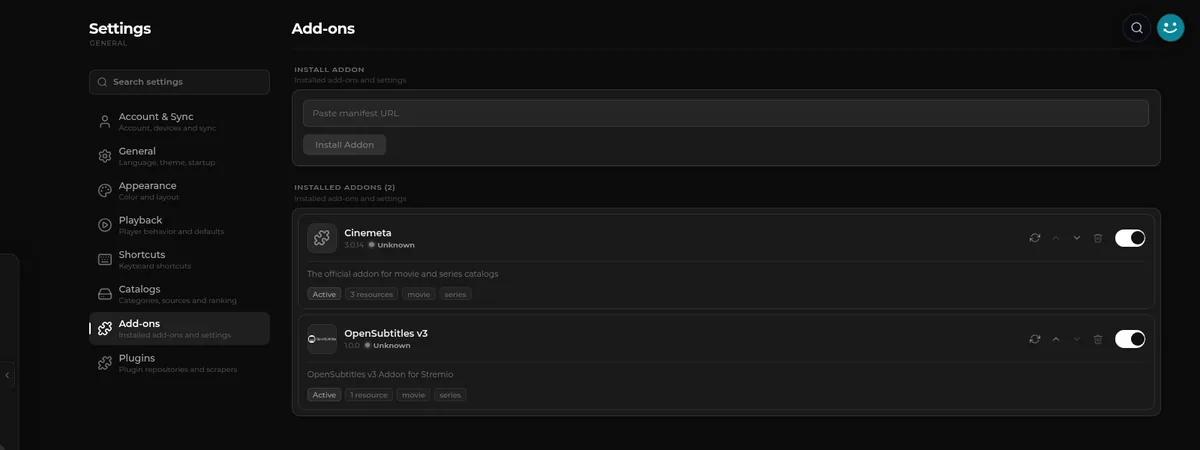
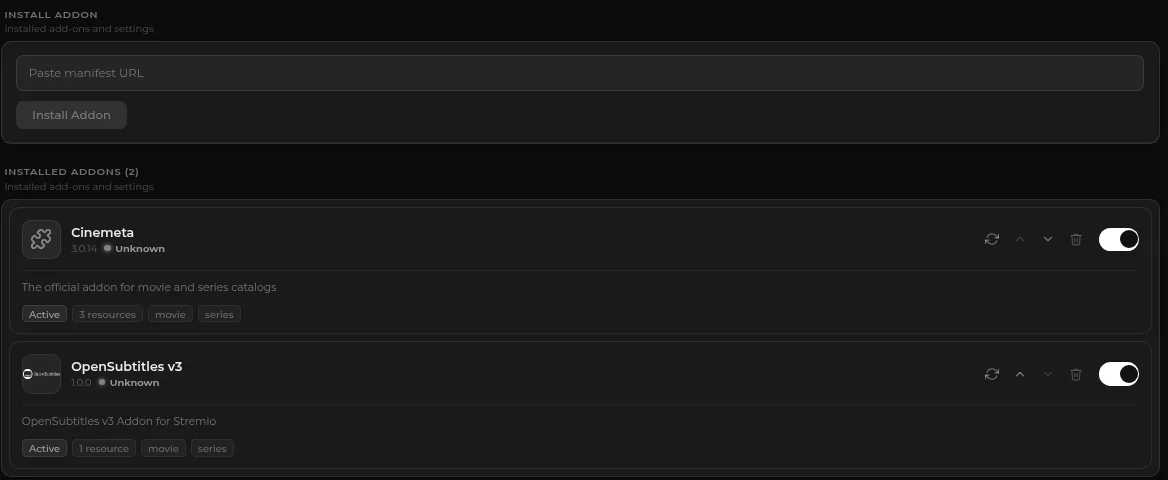
Cut the non-features, add a services band and a skip-intro demo
Built-in player, watch tracking, and no-accounts-required were not features —
a player having a player is not a selling point, and the other two describe
absences. Watch tracking becomes a scrolling band of the services Fluxa
actually connects to, which says more than a paragraph did.

Skip intro now demonstrates itself: a muted Big Buck Bunny clip loops in a
small player with the real prompt behaviour, appearing over the first five
seconds and jumping playback when pressed. The clip is hotlinked rather than
committed. Google's gtv-videos bucket now returns 403, so it comes from
test-videos.co.uk.

Screenshots were unreadable at the old size. The container is wider, the image
column takes more of the row, and the add-on shot is cropped to the panel
itself instead of including the whole settings window.

diff --git a/public/landing.css b/public/landing.css
@@ -46,7 +46,7 @@ img { display: block; max-width: 100%; }
 
 :focus-visible { outline: 2px solid var(--white); outline-offset: 3px; }
 
-.wrap { width: min(100% - 40px, 1080px); margin-inline: auto; }
+.wrap { width: min(100% - 40px, 1180px); margin-inline: auto; }
 
 .nav {
   position: sticky;
@@ -62,7 +62,7 @@ img { display: block; max-width: 100%; }
 }
 
 .nav-inner {
-  width: min(100% - 40px, 1080px);
+  width: min(100% - 40px, 1180px);
   margin-inline: auto;
   display: flex;
   align-items: center;
@@ -292,6 +292,8 @@ a.row:hover .row-action svg { transform: translateX(4px); }
   .stage { min-height: 0; }
   .stage img { max-height: 400px; }
   .show { grid-template-columns: minmax(0, 1fr); gap: 20px; }
+  .marquee-track { gap: 40px; }
+  .marquee-track img { height: 24px; }
   .show:nth-child(even) .show-copy { order: 0; }
 }
 
@@ -371,7 +373,7 @@ a.row:hover .row-action svg { transform: translateX(4px); }
 }
 
 .stage img {
-  max-height: 460px;
+  max-height: 520px;
   width: auto;
   max-width: 100%;
   border: 1px solid var(--line);
@@ -384,8 +386,8 @@ a.row:hover .row-action svg { transform: translateX(4px); }
 
 .show {
   display: grid;
-  grid-template-columns: minmax(0, 0.85fr) minmax(0, 1.15fr);
-  gap: clamp(24px, 4vw, 48px);
+  grid-template-columns: minmax(0, 0.72fr) minmax(0, 1.28fr);
+  gap: clamp(24px, 3.5vw, 44px);
   align-items: center;
 }
 
@@ -418,4 +420,102 @@ a.row:hover .row-action svg { transform: translateX(4px); }
   height: auto;
   border: 1px solid var(--line);
   border-radius: 10px;
+}
+
+
+.connect { padding: clamp(40px, 6vh, 60px) 0; border-top: 1px solid var(--line); }
+
+.connect-label {
+  text-align: center;
+  font-size: 13px;
+  font-weight: 600;
+  letter-spacing: 0.14em;
+  text-transform: uppercase;
+  color: var(--gray-dim);
+  margin-bottom: 26px;
+}
+
+.marquee {
+  overflow: hidden;
+  -webkit-mask-image: linear-gradient(90deg, transparent, #000 12%, #000 88%, transparent);
+  mask-image: linear-gradient(90deg, transparent, #000 12%, #000 88%, transparent);
+}
+
+.marquee-track {
+  display: flex;
+  align-items: center;
+  gap: 60px;
+  width: max-content;
+  padding-right: 60px;
+  animation: slide 38s linear infinite;
+}
+
+.marquee-track img {
+  height: 32px;
+  width: auto;
+  opacity: 0.85;
+  transition: opacity 0.2s, transform 0.2s;
+}
+
+.marquee:hover .marquee-track { animation-play-state: paused; }
+.marquee-track img:hover { opacity: 1; transform: scale(1.08); }
+
+@keyframes slide { to { transform: translateX(-50%); } }
+
+.demo { position: relative; }
+
+.demo video {
+  display: block;
+  width: 100%;
+  aspect-ratio: 16 / 9;
+  object-fit: cover;
+  background: #000;
+  border: 1px solid var(--line);
+  border-radius: 10px;
+}
+
+.demo-skip {
+  position: absolute;
+  right: 18px;
+  bottom: 48px;
+  font-family: inherit;
+  font-size: 13px;
+  font-weight: 600;
+  color: #0a0a0a;
+  background: rgba(250, 250, 250, 0.94);
+  border: none;
+  border-radius: 7px;
+  padding: 9px 16px;
+  cursor: pointer;
+  opacity: 0;
+  transform: translateY(6px);
+  transition: opacity 0.25s, transform 0.25s, background 0.15s;
+}
+
+.demo-skip.on { opacity: 1; transform: none; }
+.demo-skip:hover { background: #fff; }
+
+.demo-bar {
+  position: absolute;
+  left: 18px;
+  right: 18px;
+  bottom: 26px;
+  height: 3px;
+  border-radius: 3px;
+  background: rgba(255, 255, 255, 0.22);
+  overflow: hidden;
+}
+
+.demo-bar span {
+  display: block;
+  height: 100%;
+  width: 0;
+  background: var(--white);
+}
+
+.demo-credit { margin-top: 10px; font-size: 12.5px; color: var(--gray-dim); }
+.demo-credit em { font-style: italic; }
+
+@media (prefers-reduced-motion: reduce) {
+  .marquee-track { animation: none; }
 }

diff --git a/public/landing.js b/public/landing.js
@@ -163,3 +163,39 @@ function initSwitch() {
 }
 
 initSwitch();
+
+function initDemo() {
+  const video = document.getElementById('demo-video');
+  const skip = document.getElementById('demo-skip');
+  const fill = document.getElementById('demo-fill');
+  if (!video || !skip) return;
+
+  const INTRO_END = 5.2;
+
+  skip.hidden = false;
+
+  const paint = () => {
+    const shown = video.currentTime < INTRO_END;
+    skip.classList.toggle('on', shown);
+    skip.tabIndex = shown ? 0 : -1;
+    if (video.duration) fill.style.width = (video.currentTime / video.duration) * 100 + '%';
+  };
+
+  video.addEventListener('timeupdate', paint);
+  video.addEventListener('loadedmetadata', paint);
+  paint();
+  skip.addEventListener('click', () => {
+    video.currentTime = INTRO_END;
+    paint();
+  });
+
+  const observer = new IntersectionObserver(entries => {
+    for (const entry of entries) {
+      if (entry.isIntersecting) video.play().catch(() => {});
+      else video.pause();
+    }
+  }, { threshold: 0.35 });
+  observer.observe(video);
+}
+
+initDemo();
